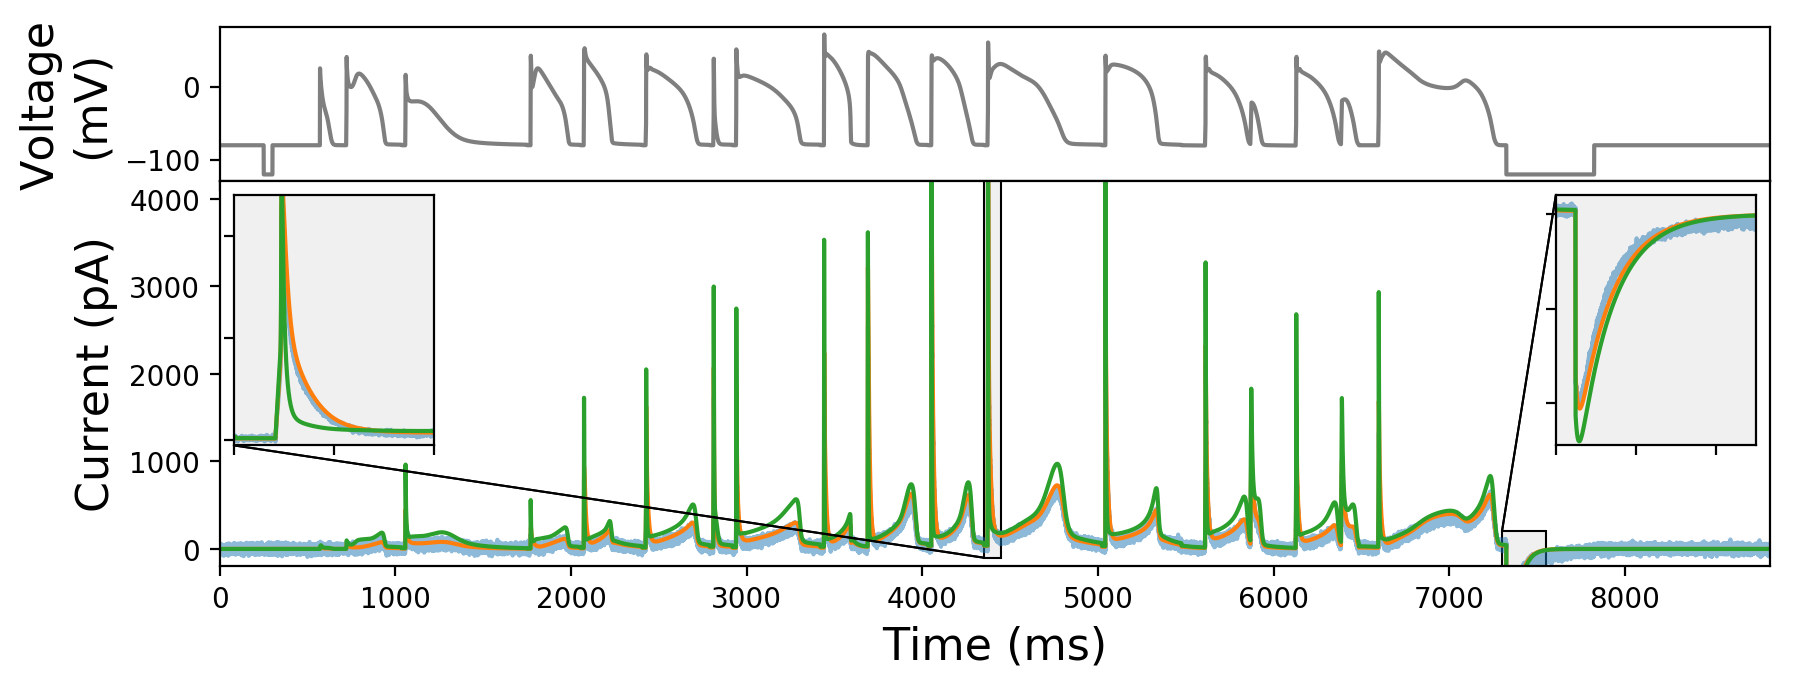
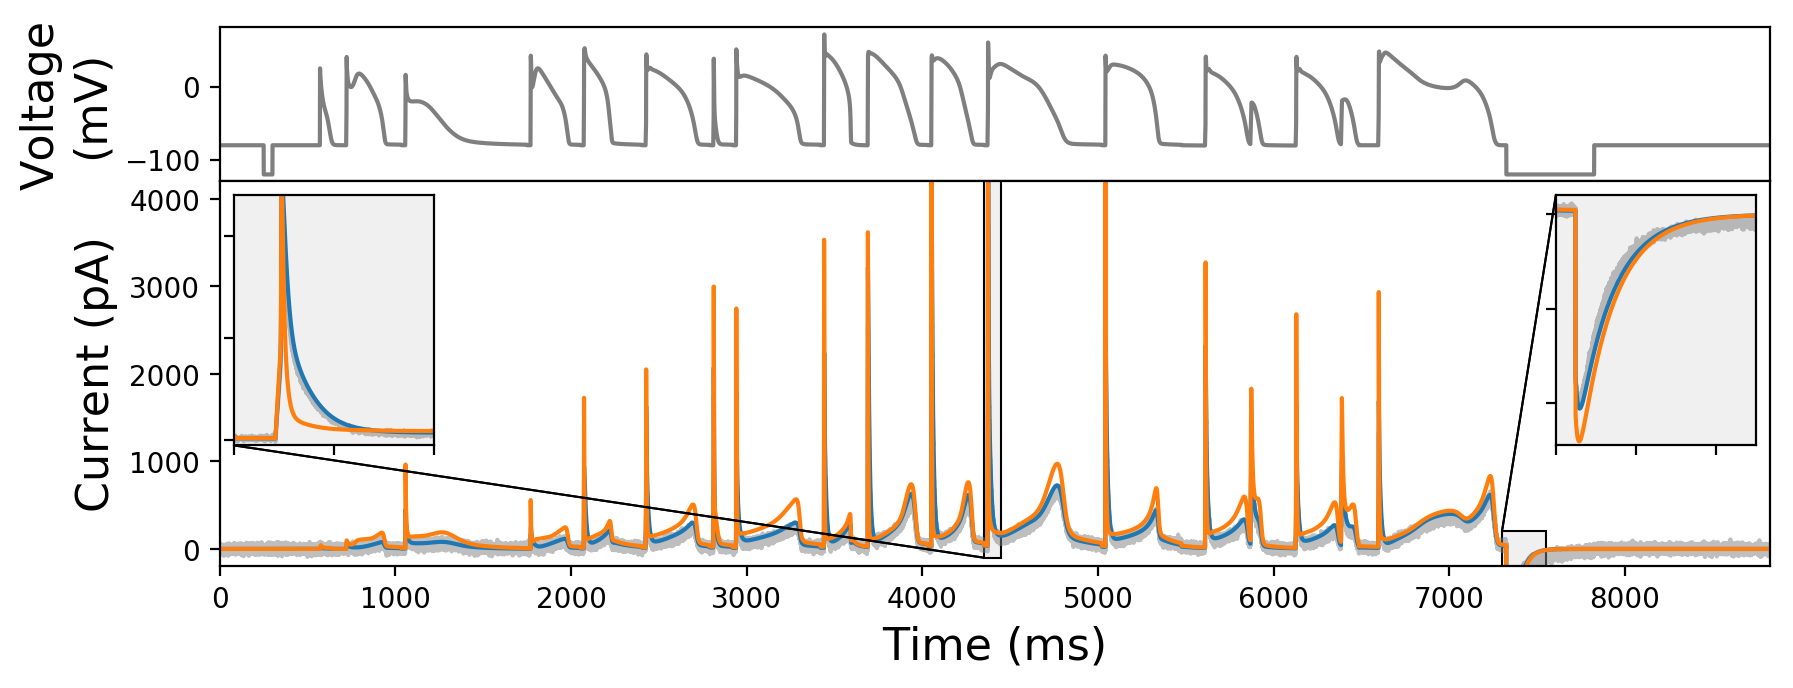
Update color

Changed region(s): [[0.1249, 0.3663, 0.9994, 0.8241], [0.8745, 0.3052, 0.9994, 0.641], [0.1249, 0.3052, 0.2499, 0.641]]

diff --git a/ion-channel-models/compare.py b/ion-channel-models/compare.py
@@ -104,11 +104,11 @@ is_predict = ' prediction' if which_predict != 'sinewave' else ''
 sim_protocol = model_a.voltage(times)  # model_b should give the same thing
 axes[0].plot(times, sim_protocol, c='#7f7f7f')
 axes[0].set_ylabel('Voltage\n(mV)', fontsize=16)
-axes[1].plot(times, data, alpha=0.5, label='Data')
+axes[1].plot(times, data, alpha=0.5, c='#7f7f7f', label='Data')
 for i, p in zip(fix_idx, predictions_a):
-    axes[1].plot(times, p, label='Model A' + is_predict)
+    axes[1].plot(times, p, c='C0', label='Model A' + is_predict)
 for i, p in zip(fix_idx, predictions_b):
-    axes[1].plot(times, p, label='Model B' + is_predict)
+    axes[1].plot(times, p, c='C1', label='Model B' + is_predict)
 
 # Zooms
 from mpl_toolkits.axes_grid1.inset_locator import inset_axes, mark_inset
@@ -118,11 +118,11 @@ axes[1].set_ylim(zoom.set_ylim)
 for i_zoom, (w, h, loc) in enumerate(zoom.inset_setup):
     axins = inset_axes(axes[1], width=w, height=h, loc=loc,
             axes_kwargs={"facecolor" : "#f0f0f0"})
-    axins.plot(times, data, alpha=0.5)
+    axins.plot(times, data, c='#7f7f7f', alpha=0.5)
     for i, p in zip(fix_idx, predictions_a):
-        axins.plot(times, p)
+        axins.plot(times, p, c='C0')
     for i, p in zip(fix_idx, predictions_b):
-        axins.plot(times, p)
+        axins.plot(times, p, c='C1')
     axins.set_xlim(zoom.set_xlim_ins[i_zoom])
     axins.set_ylim(zoom.set_ylim_ins[i_zoom])
     #axins.yaxis.get_major_locator().set_params(nbins=3)
